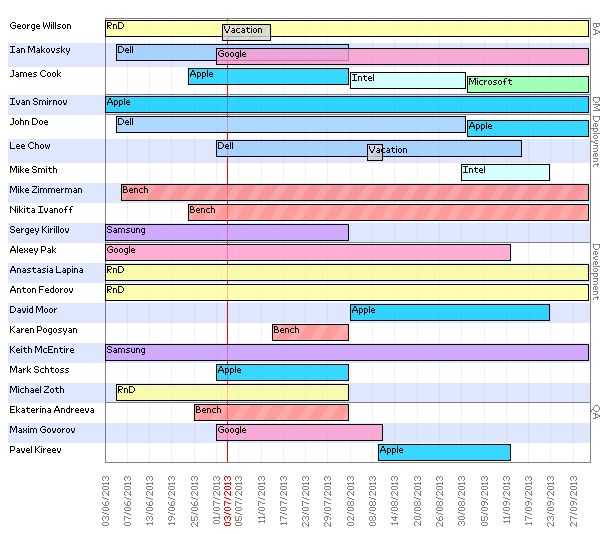
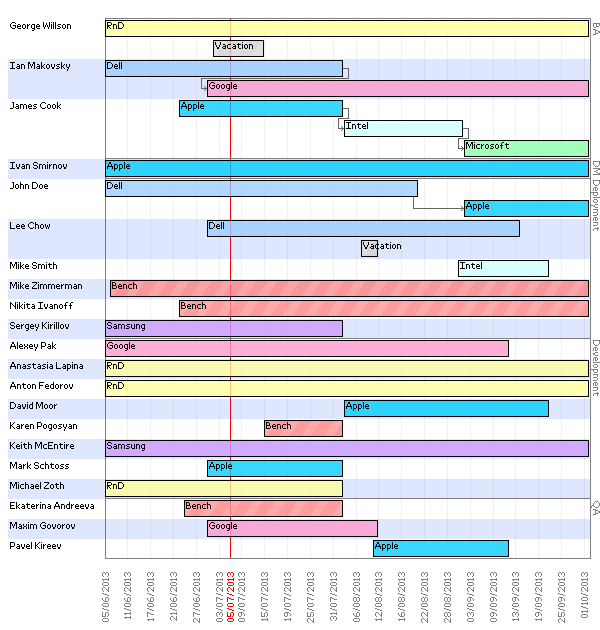
Arrows added between user's tasks in simple chart mode

diff --git a/ganttchart/render.py b/ganttchart/render.py
@@ -68,12 +68,32 @@ class Render:
             white = Image.new("RGBA", self.image.size, "#FFFFFF")
             self._init_image(Image.composite(white, self.image, final_mask))
 
-    def draw_task(self, task, y, opacity=200):
+    def draw_task(self, task, y, opacity=200, arrow_from_task=None):
         LOGGER.debug("Drawing task: %s" % task)
         x = 20 + self.left_offset + self.coords[task.from_date]
         w = int(self.coords[self.de_weekend(task.till_date, False)] - self.coords[self.de_weekend(task.from_date)] + self.day_length)
         self.opaque_rectangle(x + 1, y + 1, w - 2, self.task_height - 5, task.category.color, opacity, task.category.is_predefined)
         self.box(x, y, w - 1, self.task_height - 4)
+        if (arrow_from_task and arrow_from_task.till_date < task.till_date):
+            # Draw arrow from predecessing taks
+            fill = "#666666"
+
+            half_height = self.task_height / 2
+            y_middle = y + half_height - 2
+            self.draw.line((x - 6, y_middle, x - 1, y_middle), fill)
+            self.draw.line((x - 3, y_middle - 2, x - 1, y_middle), fill) 
+            self.draw.line((x - 3, y_middle + 2, x - 1, y_middle), fill) 
+
+            x_previous = 20 + self.left_offset + self.coords[arrow_from_task.till_date]
+
+            if self.coords[self.de_weekend(task.from_date)] - self.coords[self.de_weekend(arrow_from_task.till_date)] > 10:
+                self.draw.line((x_previous, y_middle, x_previous, y_middle - half_height - 1), fill)
+                self.draw.line((x - 6, y_middle, x_previous, y_middle), fill)
+            else:
+                self.draw.line((x - 6, y_middle, x - 6, y - 2), fill)
+                self.draw.line((x - 6, y - 2, x_previous + 10, y - 2), fill)
+                self.draw.line((x_previous + 10, y - 2, x_previous + 10, y - half_height - 2), fill)
+                self.draw.line((x_previous + 10, y - half_height - 2, x_previous + 5, y - half_height - 2), fill)
         self.text(x + 2, y - 2, task.category.title)
 
     def milestone(self, date, fill="#808080", textfill="#808080"):

diff --git a/ganttchart/chart.py b/ganttchart/chart.py
@@ -47,10 +47,12 @@ class GanttChart:
                     render.opaque_rectangle(8, y - 1, 11 + render.left_offset + render.active_width, render.task_height * tasks_num - 1, "#0040FF", 32)
                 render.text(10, y - 2, n)
                 # Tasks dates
+                previous_task = None
                 for d in sorted(owner_tasks.iterkeys()):
                     # Tasks
                     for task in owner_tasks[d]:
-                    	render.draw_task(task, y)
+                    	render.draw_task(task, y, 200, previous_task)
+                        previous_task = task
                     	y += render.task_height
                 i += 1
 

diff --git a/local.py b/local.py
@@ -11,7 +11,8 @@ if __name__ == "__main__":
     LOGGER.debug("Rendered page: %s" % data)
 
     source = datasource.CsvDataSource()
-    c = chart.OffsetGanttChart("Test Chart")
+#    c = chart.OffsetGanttChart("Test Chart")
+    c = chart.GanttChart("Test Chart")
     source.parse(data, c)
     r = render.Render(600)
     image_rendered = r.process(c)
